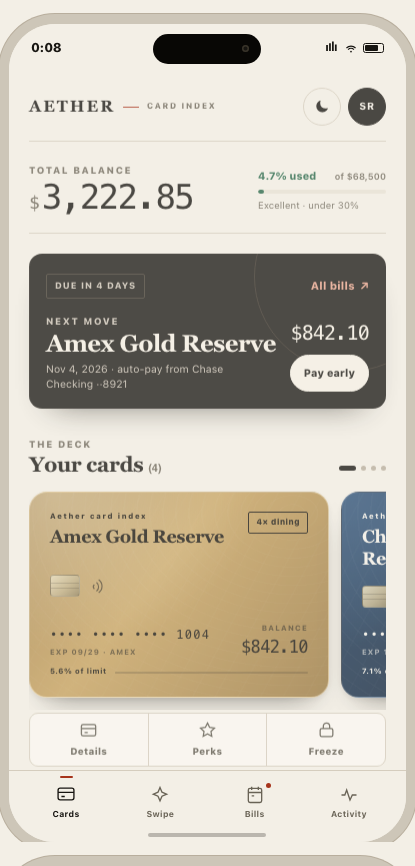
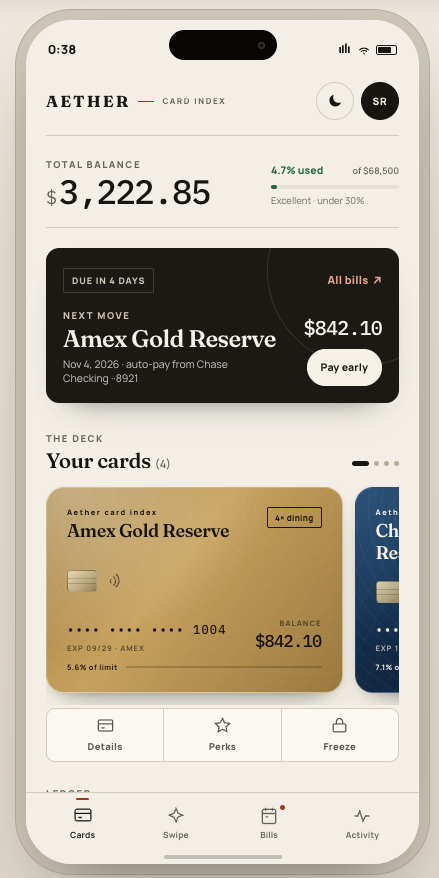
docs(readme): embed authentic 393px mobile frame captures into readme

diff --git a/demo/app.js b/demo/app.js
@@ -1492,39 +1492,11 @@
       ctx.closePath();
     };
 
-    // Automated 1-Click Frame Capture: renders exact 393px iPhone with titanium bezel, copies to clipboard & downloads
+    // Direct raw frame capture: renders exact same HTML without modifying DOM or triggering popups
     const captureAndDownloadFrame = async () => {
       const shell = dom.deviceShell;
-      const btn = dom.btnDesktopCapture;
       if (!shell) return;
 
-      // Provide feedback strictly on the desktop toolbar button — NEVER inside or over the phone screen
-      let labelSpan = null;
-      let origText = '';
-      if (btn) {
-        btn.disabled = true;
-        labelSpan = btn.querySelector('span:last-child');
-        if (labelSpan) {
-          origText = labelSpan.textContent;
-          labelSpan.textContent = 'Capturing...';
-        }
-      }
-
-      // Clear any existing toasts so the screen is completely clean
-      if (dom.toastContainer) {
-        dom.toastContainer.innerHTML = '';
-      }
-      document.body.classList.remove('frame-isolate-mode');
-
-      // If user was in montage mode, temporarily show device shell for capture
-      if (state.isMontageMode) {
-        state.isMontageMode = false;
-        dom.montageWrapper.classList.add('hidden');
-        dom.deviceShell.style.display = 'flex';
-        dom.presetBtns.forEach(b => b.classList.toggle('active', b.dataset.width === '393'));
-      }
-
-      // Ensure html2canvas is ready
       if (typeof html2canvas === 'undefined') {
         try {
           await new Promise((resolve, reject) => {
@@ -1535,115 +1507,33 @@
             document.head.appendChild(s);
           });
         } catch (e) {
-          if (btn) {
-            btn.disabled = false;
-            if (labelSpan) labelSpan.textContent = origText;
-          }
-          showToast('Could not load html2canvas library', 'error');
           return;
         }
       }
 
-      // Temporarily lock dimensions to exact 393 × 844 during rasterization
-      const prevWidth = shell.style.width;
-      const prevHeight = shell.style.height;
-      const prevMaxHeight = shell.style.maxHeight;
-      const prevTransform = shell.style.transform;
-
-      shell.style.width = '393px';
-      shell.style.height = '844px';
-      shell.style.maxHeight = '844px';
-      shell.style.transform = 'none';
-
       try {
-        document.body.classList.add('is-capturing');
         const isDark = document.body.classList.contains('theme-dark');
-        const screenCanvas = await html2canvas(shell, {
+        const canvas = await html2canvas(shell, {
           scale: 2,
           useCORS: true,
           allowTaint: true,
           backgroundColor: isDark ? '#12110F' : '#F3EFE6',
-          logging: false,
-          width: 393,
-          height: 844,
-          windowWidth: 1200,
-          windowHeight: 1000,
-          ignoreElements: (el) => {
-            if (!el || !el.classList) return false;
-            if (el.classList.contains('toast-container') || el.classList.contains('toast')) return true;
-            if (el.classList.contains('sheet-backdrop') && !el.classList.contains('active')) return true;
-            return false;
-          }
+          logging: false
         });
-        document.body.classList.remove('is-capturing');
 
-        // Restore dimensions immediately
-        shell.style.width = prevWidth;
-        shell.style.height = prevHeight;
-        shell.style.maxHeight = prevMaxHeight;
-        shell.style.transform = prevTransform;
+        canvas.toBlob(async (blob) => {
+          if (!blob) return;
 
-        // Composite onto high-res frame with 11px titanium bezel (415 × 866 at scale 2 = 830 × 1732)
-        const scale = 2;
-        const totalW = 415 * scale;
-        const totalH = 866 * scale;
-        const bezel = 11 * scale;
-        const outerRadius = 54 * scale;
-        const innerRadius = 44 * scale;
-
-        const finalCanvas = document.createElement('canvas');
-        finalCanvas.width = totalW;
-        finalCanvas.height = totalH;
-        const ctx = finalCanvas.getContext('2d');
-
-        // Draw titanium outer rim (#B8AE9D light / #514A3C dark)
-        drawRoundRect(ctx, 0, 0, totalW, totalH, outerRadius);
-        ctx.fillStyle = isDark ? '#514A3C' : '#B8AE9D';
-        ctx.fill();
-
-        // Draw titanium main bezel body (#CDC6B8 light / #2A261F dark)
-        const rimOffset = 1 * scale;
-        drawRoundRect(ctx, rimOffset, rimOffset, totalW - rimOffset * 2, totalH - rimOffset * 2, outerRadius - rimOffset);
-        ctx.fillStyle = isDark ? '#2A261F' : '#CDC6B8';
-        ctx.fill();
-
-        // Clip and paint inner screen
-        ctx.save();
-        drawRoundRect(ctx, bezel, bezel, 393 * scale, 844 * scale, innerRadius);
-        ctx.clip();
-        // Fill solid paper background first so titanium bezel color never bleeds through
-        ctx.fillStyle = isDark ? '#12110F' : '#F3EFE6';
-        ctx.fillRect(bezel, bezel, 393 * scale, 844 * scale);
-        // Draw captured screen
-        ctx.drawImage(screenCanvas, 0, 0, 393 * scale, 844 * scale, bezel, bezel, 393 * scale, 844 * scale);
-        ctx.restore();
-
-        // Convert to PNG blob
-        finalCanvas.toBlob(async (blob) => {
-          if (btn) {
-            btn.disabled = false;
-            if (labelSpan) labelSpan.textContent = origText;
-          }
-
-          if (!blob) {
-            showToast('Failed to generate PNG blob', 'error');
-            return;
-          }
-
-          let copied = false;
-          // 1. Copy directly to system clipboard
+          // Silently attach to clipboard
           if (navigator.clipboard && window.ClipboardItem) {
             try {
               await navigator.clipboard.write([
                 new ClipboardItem({ 'image/png': blob })
               ]);
-              copied = true;
-            } catch (clipErr) {
-              console.warn('Clipboard write prevented by browser permissions:', clipErr);
-            }
+            } catch (e) {}
           }
 
-          // 2. Automatically trigger file download
+          // Directly download the exact image
           const tabName = state.activeTab.replace('view-', '');
           const filename = `aether-${tabName}-iphone-393.png`;
           const url = URL.createObjectURL(blob);
@@ -1653,28 +1543,10 @@
           document.body.appendChild(a);
           a.click();
           document.body.removeChild(a);
-          setTimeout(() => URL.revokeObjectURL(url), 1500);
-
-          if (copied) {
-            showToast(`📸 Copied to clipboard & saved as ${filename}!`, 'success');
-          } else {
-            showToast(`📸 Saved ${filename} to your Downloads folder!`, 'success');
-          }
+          setTimeout(() => URL.revokeObjectURL(url), 1000);
         }, 'image/png');
-
       } catch (err) {
-        document.body.classList.remove('is-capturing');
-        // Restore styles and button on error
-        shell.style.width = prevWidth;
-        shell.style.height = prevHeight;
-        shell.style.maxHeight = prevMaxHeight;
-        shell.style.transform = prevTransform;
-        if (btn) {
-          btn.disabled = false;
-          if (labelSpan) labelSpan.textContent = origText;
-        }
         console.error('Frame capture error:', err);
-        showToast('Snapshot failed: ' + (err.message || 'unknown error'), 'error');
       }
     };
 

diff --git a/demo/styles.css b/demo/styles.css
@@ -950,6 +950,14 @@ body.theme-dark .button-primary:hover { background: #F27656; border-color: #F276
   -webkit-backface-visibility: hidden;
 }
 
+.credit-card-wrapper:not(.flipped) .card-face.card-back {
+  display: none;
+}
+
+.credit-card-wrapper.flipped .card-face.card-front {
+  display: none;
+}
+
 .card-face::before {
   content: '';
   position: absolute;
@@ -3024,137 +3032,4 @@ body.exact-mobile-frame .device-shell {
 }
 
 
-/* ==========================================================================
-   PIXEL-PERFECT FRAME CAPTURE MODIFIERS
-   ========================================================================== */
-body.is-capturing .preview-bar,
-body.is-capturing .toast-container,
-body.is-capturing .toast {
-  display: none !important;
-}
 
-/* html2canvas fix: eliminate inactive sheet backdrops from causing foggy overlay */
-body.is-capturing .sheet-backdrop:not(.active) {
-  display: none !important;
-}
-
-/* html2canvas fix: prevent repeating radial gradient noise from washing out card foil */
-body.is-capturing .card-face::before {
-  display: none !important;
-}
-
-/* html2canvas 2D canvas fix: prevent 3D backface bleed-through */
-body.is-capturing .credit-card-wrapper:not(.flipped) .card-face.card-back {
-  display: none !important;
-}
-
-body.is-capturing .credit-card-wrapper.flipped .card-face.card-front {
-  display: none !important;
-}
-
-body.is-capturing .device-shell {
-  box-shadow: none !important;
-}
-.preview-toggle.capture-btn {
-  background: var(--accent-soft);
-  border-color: var(--accent);
-  color: var(--accent);
-  font-weight: 800;
-}
-
-body.frame-isolate-mode {
-  padding: 0 !important;
-  margin: 0 !important;
-  min-height: 100vh !important;
-  height: 100vh !important;
-  display: flex !important;
-  flex-direction: column !important;
-  align-items: center !important;
-  justify-content: center !important;
-  background: #E8E3D8 !important;
-  overflow: hidden !important;
-}
-
-body.theme-dark.frame-isolate-mode {
-  background: #0E0D0A !important;
-}
-
-body.frame-isolate-mode .preview-bar,
-body.frame-isolate-mode .montage-wrapper {
-  display: none !important;
-}
-
-body.frame-isolate-mode .device-shell {
-  position: relative !important;
-  width: 393px !important;
-  height: 844px !important;
-  max-height: 844px !important;
-  border-radius: 46px !important;
-  box-shadow: 0 0 0 10px #CDC6B8, 0 0 0 11px #B8AE9D !important;
-  margin: auto !important;
-  flex-shrink: 0 !important;
-}
-
-.frame-isolate-toolbar {
-  position: fixed;
-  top: 14px;
-  left: 50%;
-  transform: translateX(-50%);
-  z-index: 9999;
-  display: none;
-  align-items: center;
-  gap: 12px;
-  background: rgba(255, 255, 255, 0.96);
-  backdrop-filter: blur(14px);
-  -webkit-backdrop-filter: blur(14px);
-  padding: 8px 16px;
-  border-radius: 999px;
-  border: 1px solid rgba(23, 21, 17, 0.15);
-  box-shadow: 0 10px 30px rgba(0, 0, 0, 0.15);
-  font-family: 'Manrope', -apple-system, sans-serif;
-  font-size: 12px;
-  font-weight: 700;
-  color: #171511;
-  animation: slideDownToast 0.25s ease;
-}
-
-body.theme-dark .frame-isolate-toolbar {
-  background: rgba(26, 24, 20, 0.96);
-  border-color: rgba(255, 255, 255, 0.15);
-  color: #FAF8F5;
-  box-shadow: 0 12px 35px rgba(0, 0, 0, 0.6);
-}
-
-body.frame-isolate-mode .frame-isolate-toolbar {
-  display: flex !important;
-}
-
-.isolate-pill-btn {
-  background: #171511;
-  color: #FFFFFF;
-  border: none;
-  padding: 6px 14px;
-  border-radius: 999px;
-  font-size: 11px;
-  font-weight: 800;
-  cursor: pointer;
-  transition: all 0.15s ease;
-  display: inline-flex;
-  align-items: center;
-  gap: 6px;
-}
-
-.isolate-pill-btn:hover {
-  background: #000000;
-  transform: translateY(-1px);
-}
-
-.isolate-pill-btn.secondary {
-  background: rgba(23, 21, 17, 0.08);
-  color: #171511;
-}
-
-body.theme-dark .isolate-pill-btn.secondary {
-  background: rgba(255, 255, 255, 0.14);
-  color: #FAF8F5;
-}
